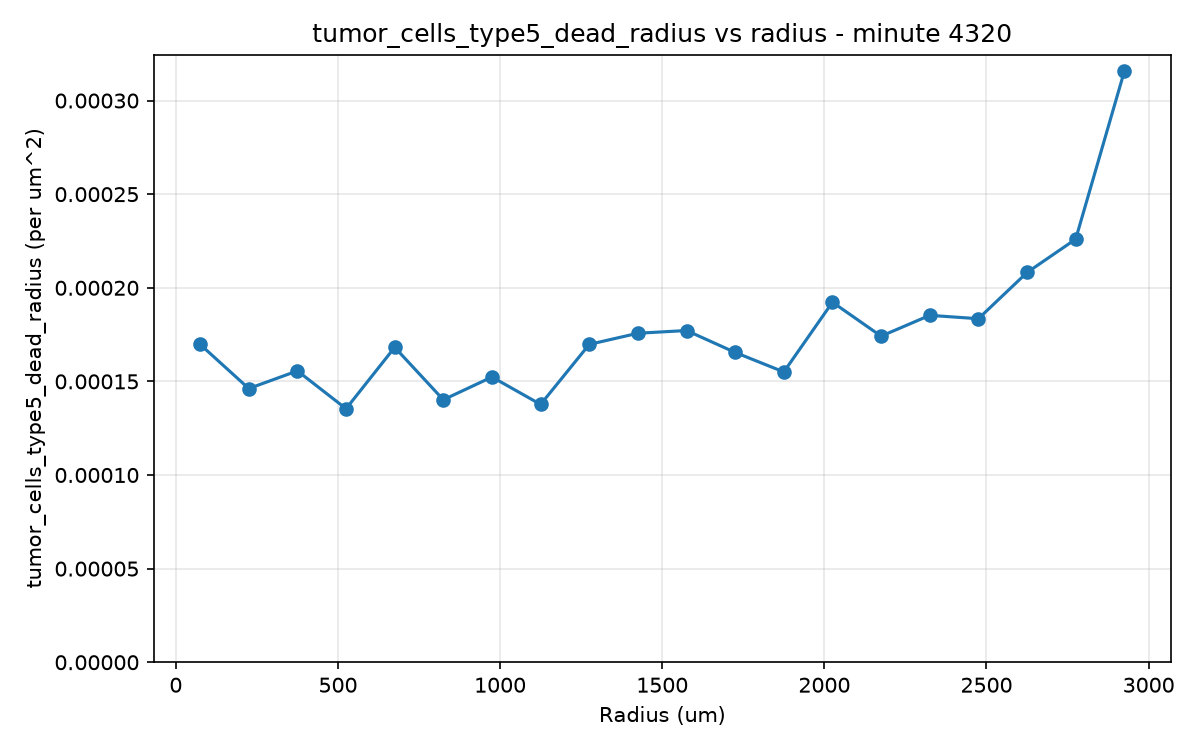
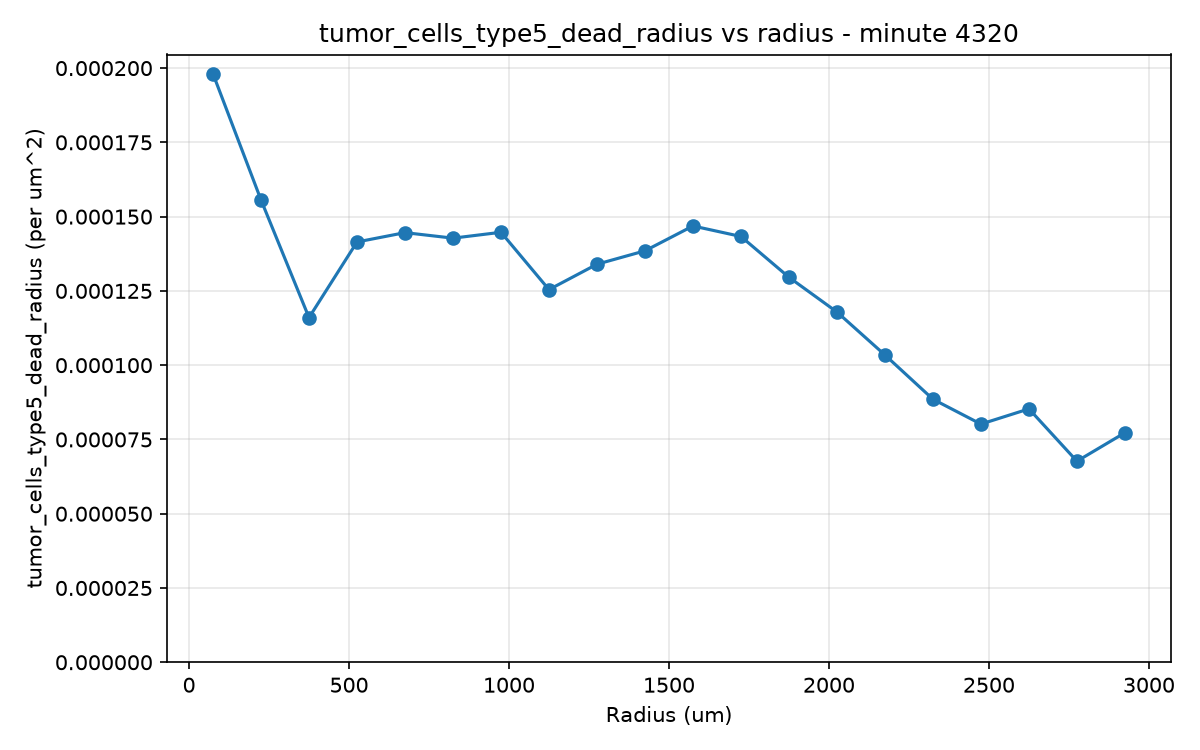
new configuration maximun necrosis rate for model without treatment and with glucose

diff --git a/abm_calibration/optimize.py b/abm_calibration/optimize.py
@@ -29,12 +29,12 @@ import optuna
 import pandas as pd
 
 # Change this: File Parameters for the desired experiment
-EXPERIMENT_ID = 101
+EXPERIMENT_ID = 111
 SEED = 42
 # You can set the number of trials to 0 to skip the optimization and just load the best result from the database
 NUMBER_OF_TRIALS = 10000
 # Number of Monte Carlo simulations to run for each trial. Use one for an aproximation of the error with a single montecarlo run
-NUMBER_MONTE_CARLO = 1
+NUMBER_MONTE_CARLO = 5
 # BioDynaMo directory to execute the comand source thisbdm.sh, you can change it to your own path
 BIODYNAMO_DIR = " /home/usuario/Desktop/biodynamo/build/bin/thisbdm.sh"
 
@@ -59,11 +59,8 @@ def run_ABM(params, seed):
     #     "basal_death_probability_cancer_cells"
     # ]
 
-    avg_migration_bias_cart = params[
-        "avg_migration_bias_cart"
-    ]
-    std_migration_bias_cart = params[
-        "std_migration_bias_cart"
+    maximum_necrosis_lack_of_oxygen_rate = params[
+        "maximum_necrosis_lack_of_oxygen_rate"
     ]
     # default_glucose_consumption_tumor_cell = params[
     #     "default_glucose_consumption_tumor_cell"
@@ -74,7 +71,7 @@ def run_ABM(params, seed):
 
     # Change this configuration for the ABM run
     config = {
-  "seed": 42,
+  "seed": seed,
   "bound_space_toplogy": "closed",
   "num_radius_intervals": 20,
   "lateral_oxygen_production_min_z": -300.0,
@@ -92,7 +89,7 @@ def run_ABM(params, seed):
   "cylindrical_tumor_radius": 3000.0,
   "max_radius_analysis_csv_dependent_on_radius": 3000.0,
   "cylindrical_tumor_height": 100.0,
-  "initial_number_of_cylindrical_tumor_cells": 2800,
+  "initial_number_of_cylindrical_tumor_cells": 28000,
   "default_volume_new_tumor_cell": 1468.0,
   "std_volume_new_tumor_cell": 166,
   "min_volume_new_tumor_cell": 1136.0,
@@ -106,22 +103,22 @@ def run_ABM(params, seed):
   "initial_oxygen_level": 0.0,
   "oxygen_reference_level": 165.0,
   "default_oxygen_consumption_tumor_cell": 77.47,
-  "default_glucose_consumption_tumor_cell": 0.45,
+  "default_glucose_consumption_tumor_cell": 0.045,
   "diffusion_coefficient_oxygen": 180000.0,
   "decay_constant_oxygen": 0.01,
   "time_apoptosis": 6000.0,
   "time_lysis": 6000.0,
   "treatment": {
-    "0": 5600
+    "0": 0
   },
   "average_time_transformation_random_rate": 72,
   "standard_deviation_transformation_random_rate": 15.0,
   "decay_constant_glucose": 0.0005,
-  "oxygen_saturation_for_proliferation": 0,
-  "oxygen_limit_for_proliferation": 0,
+  "oxygen_saturation_for_proliferation": 13.74,
+  "oxygen_limit_for_proliferation": 5.9,
   "oxygen_limit_for_necrosis_maximum": 0.0,
-  "oxygen_limit_for_necrosis": 0.0,
-  "maximum_necrosis_lack_of_oxygen_rate": 0.0,
+  "oxygen_limit_for_necrosis": 45.0,
+  "maximum_necrosis_lack_of_oxygen_rate": maximum_necrosis_lack_of_oxygen_rate,
   "reduction_consumption_dead_cells": 0.0,
   "basal_death_probability_cancer_cells": 0.000005,
   "bounded_space_min_allowed_z": -50.0,
@@ -133,19 +130,21 @@ def run_ABM(params, seed):
   "diffusion_coefficient_glucose": 7800,
   "initial_glucose_level": 24.98,
   "max_radius_glucose_initialization": 3100.0,  
-  "default_oxygen_consumption_cart": 0,
-  "default_glucose_consumption_cart": 0.7,
+  "default_oxygen_consumption_cart": 7,
+  "default_glucose_consumption_cart": 0.07,
   "glucose_saturation_for_tumor_cell_growth": 24.98,
   "glucose_limit_for_tumor_cell_growth": 0,
   "glucose_limit_for_death": 5,
   "glucose_limit_for_death_maximum": 0,
   "maximum_death_lack_of_glucose_rate": 0.000175,
   "minimum_tumor_cell_target_volume_fraction_for_division": 0.9,
-  "avg_migration_bias_cart": avg_migration_bias_cart,
-  "std_migration_bias_cart": std_migration_bias_cart,
+  "avg_migration_bias_cart": 0,
+  "std_migration_bias_cart": 0.135,
   "persistence_time_cart": 0,
   "kill_rate_cart": 0.521,
-  "adhesion_rate_cart": 0.0013
+  "adhesion_rate_cart": 0.00032,
+  "diffusion_coefficient_immunostimulatory_factor": 100000,
+  "decay_constant_immunostimulatory_factor": 0.00001
 }
     # Save the config parameters for the run to the params.json file
     with open(PARAMS_PATH, "w") as f:
@@ -157,29 +156,32 @@ def run_ABM(params, seed):
 
 # Change This: Function to compute the error between the ABM simulation results and the experimental data
 def compute_error():
-#     sim_dir = Path(__file__).resolve().parent.parent / "output" / "data_dependent_on_radius_tumor.csv"
+    sim_dir = Path(__file__).resolve().parent.parent / "output" / "data_dependent_on_radius_tumor.csv"
 
 #     if not sim_dir.exists():
 #         logging.error("Missing simulation CSV: %s", sim_dir)
 #         return float("inf")
 
-#     df_s = pd.read_csv(
-#         sim_dir,
-#         usecols=[
-#             "total_minutes",
-#             "average_oxygen_all_cells_radius_2850_to_3000",
-#             "average_oxygen_all_cells_radius_0_to_150",
-#         ],
-#     )
+    df_s = pd.read_csv(
+        sim_dir,
+        usecols=[
+            "total_minutes",
+            "tumor_cells_type5_dead_radius_0_to_150"
+        ],
+    )
 
 #     # See the value at the minute 30 for the average oxygen level in the simulation data
-#     row = df_s[df_s["total_minutes"] == 30].iloc[0]
+    row = df_s[df_s["total_minutes"] == 4320].iloc[0]
 #     value_border = row["average_oxygen_all_cells_radius_2850_to_3000"]
 #     value_border_in_mol_m3 = value_border / 585  # Convert from mmHg to mol/m3
 #     target_value_border = target_outer
-#     value_center = row["average_oxygen_all_cells_radius_0_to_150"]
+    value_center = row["tumor_cells_type5_dead_radius_0_to_150"]
 #     value_center_in_mol_m3 = value_center / 585  # Convert from mmHg to mol/m3
-#     target_value_center = target_inner
+    target_value_center = 10.6
+
+    error_total_tumor_cells = abs(value_center - target_value_center)
+
+    return float(error_total_tumor_cells)
 
 #    # Debug print de los 4 valores 
 #     print(f"Value border: {value_border_in_mol_m3}")
@@ -191,16 +193,17 @@ def compute_error():
 #     mse = ((value_border_in_mol_m3 - target_value_border) ** 2 + (value_center_in_mol_m3 - target_value_center) ** 2) / 2 
     
 #     return float(mse)
-    sim_dir = Path(__file__).resolve().parent.parent / "output" / "final_data.csv"
+    # sim_dir = Path(__file__).resolve().parent.parent / "output" / "final_data.csv"
+    # sim_dir = Path(__file__).resolve().parent.parent / "output" / "final_data.csv"
 
 
-    if not sim_dir.exists():
-        logging.error("Missing simulation CSV: %s", sim_dir)
-        return float("inf")
+    # if not sim_dir.exists():
+    #     logging.error("Missing simulation CSV: %s", sim_dir)
+    #     return float("inf")
 
-    df_s = pd.read_csv(
-        sim_dir, usecols=["total_minutes", "num_tumor_cells", "tumor_cells_type5_dead","average_glucose_all_cells","average_radius_distance_living_cart_cells"]
-    )
+    # df_s = pd.read_csv(
+    #     sim_dir, usecols=["total_minutes", "num_tumor_cells", "tumor_cells_type5_dead","average_glucose_all_cells","average_radius_distance_living_cart_cells"]
+    # )
    #take at the minute 1440 
     # row = df_s[df_s["total_minutes"] == 1440].iloc[0]
     # tumor_cells_type5_dead_1440 = row["tumor_cells_type5_dead"]
@@ -212,9 +215,9 @@ def compute_error():
     # target_tumor_cells_type5_dead_2880 = 350
 
    # take the value at the minute 4320 for the number of dead tumor cells in the simulation data
-    row = df_s[df_s["total_minutes"] == 4320].iloc[0]
-    dead_cells_4320 = row["tumor_cells_type5_dead"]
-    dead_cells_4320_target = 680
+    # row = df_s[df_s["total_minutes"] == 4320].iloc[0]
+    # dead_cells_4320 = row["tumor_cells_type5_dead"]
+    # dead_cells_4320_target = 680
     # total_tumor_cells_4320 = row["num_tumor_cells"]
     # target_total_tumor_cells_4320 = 4143.0
 
@@ -225,9 +228,9 @@ def compute_error():
     
 
     # Compute absolute errors
-    error_total_tumor_cells = abs(dead_cells_4320 - dead_cells_4320_target)
+    # error_total_tumor_cells = abs(dead_cells_4320 - dead_cells_4320_target)
 
-    return float(error_total_tumor_cells)
+    # return float(error_total_tumor_cells)
 
 
     # dafault 
@@ -351,8 +354,8 @@ def compute_error():
 def objective(trial):
     # Change this: Define the parameters to be optimized and their ranges
     params = {
-        "avg_migration_bias_cart": trial.suggest_float("avg_migration_bias_cart", 0.0, 0.3, step=0.1),
-        "std_migration_bias_cart": trial.suggest_float("std_migration_bias_cart", 1, 50, step=1),
+        "maximum_necrosis_lack_of_oxygen_rate": trial.suggest_float("maximum_necrosis_lack_of_oxygen_rate", 0.0000177, 0.0000216, step=0.0000003),
+        # "std_migration_bias_cart": trial.suggest_float("std_migration_bias_cart", 1, 50, step=1),
         # "maximum_necrosis_lack_of_oxygen_rate": trial.suggest_float("maximum_necrosis_lack_of_oxygen_rate", 0.00002, 0.000022, step=0.0000004),
         # "kill_rate_cart": trial.suggest_float("kill_rate_cart", 0.001, 0.999, step=0.001),
         # "maximum_death_lack_of_glucose_rate": trial.suggest_float("maximum_death_lack_of_glucose_rate", 0.000085, 0.000106, step=0.000001)

diff --git a/draft/experimentation.py b/draft/experimentation.py
@@ -42,12 +42,14 @@ def run_ABM(seed):
 
     config={
   "seed": seed,
+  "bound_space_toplogy": "closed",
   "num_radius_intervals": 20,
   "lateral_oxygen_production_min_z": -300.0,
   "lateral_oxygen_production_max_z": 300.0,
   "min_initial_z_substances": -300.0,
   "max_initial_z_substances": 300.0,
-  "diffuse_on_z_axis": False,
+  "diffuse_oxygen_on_z_axis": False,
+  "diffuse_glucose_on_z_axis": False,
   "output_performance_statistics": False,
   "total_minutes_to_simulate": 4320,
   "output_csv_interval": 600,
@@ -59,47 +61,60 @@ def run_ABM(seed):
   "cylindrical_tumor_height": 100.0,
   "initial_number_of_cylindrical_tumor_cells": 28000,
   "default_volume_new_tumor_cell": 1468.0,
-  "std_volume_new_tumor_cell": 0,
+  "std_volume_new_tumor_cell": 166,
+  "min_volume_new_tumor_cell": 1136.0,
+  "max_volume_new_tumor_cell": 1800.0,
   "default_volume_new_cart_cell": 269.0,
-  "std_volume_new_cart_cell": 67.25,
+  "std_volume_new_cart_cell": 33.625,
+  "min_volume_new_cart_cell": 201.75,
+  "max_volume_new_cart_cell": 336.25,
   "oncoprotein_mean": 1.0,
   "oncoprotein_standard_deviation": 0.0,
   "initial_oxygen_level": 0.0,
   "oxygen_reference_level": 165.0,
   "default_oxygen_consumption_tumor_cell": 77.47,
-  "default_oxygen_consumption_cart": 0,
+  "default_glucose_consumption_tumor_cell": 0.045,
   "diffusion_coefficient_oxygen": 180000.0,
   "decay_constant_oxygen": 0.01,
   "time_apoptosis": 6000.0,
+  "time_lysis": 6000.0,
   "treatment": {
     "0": 0
   },
   "average_time_transformation_random_rate": 72,
   "standard_deviation_transformation_random_rate": 15.0,
   "decay_constant_glucose": 0.0005,
-  "oxygen_saturation_for_proliferation": 0,
-  "oxygen_limit_for_proliferation": 0,
+  "oxygen_saturation_for_proliferation": 13.74,
+  "oxygen_limit_for_proliferation": 5.9,
   "oxygen_limit_for_necrosis_maximum": 0.0,
-  "oxygen_limit_for_necrosis": 0.0,
-  "maximum_necrosis_lack_of_oxygen_rate": 2.16e-05,
+  "oxygen_limit_for_necrosis": 45.0,
+  "maximum_necrosis_lack_of_oxygen_rate": 0.0000216,
   "reduction_consumption_dead_cells": 0.0,
-  "basal_death_probability_cancer_cells": 5e-06,
+  "basal_death_probability_cancer_cells": 0.000005,
   "bounded_space_min_allowed_z": -50.0,
   "bounded_space_max_allowed_z": 50.0,
-  "minimum_distance_from_tumor_to_spawn_cart": 20.0,
-  "add_immunostimulatory_factor": False,
+  "bounded_space_max_allowed_radius": 3250.0,
+  "minimum_distance_from_tumor_to_spawn_cart": 0.0,
+  "add_immunostimulatory_factor": True,
   "add_glucose": True,
   "diffusion_coefficient_glucose": 7800,
   "initial_glucose_level": 24.98,
-  "max_radius_glucose_initialization": 3100.0,
-  "default_glucose_consumption_tumor_cell": 0.045,
-  "default_glucose_consumption_cart": 0.045,
+  "max_radius_glucose_initialization": 3100.0,  
+  "default_oxygen_consumption_cart": 7,
+  "default_glucose_consumption_cart": 0.07,
   "glucose_saturation_for_tumor_cell_growth": 24.98,
   "glucose_limit_for_tumor_cell_growth": 0,
   "glucose_limit_for_death": 5,
   "glucose_limit_for_death_maximum": 0,
-  "maximum_death_lack_of_glucose_rate": 0.000156,
-  "minimum_tumor_cell_target_volume_fraction_for_division": 0.9
+  "maximum_death_lack_of_glucose_rate": 0.000175,
+  "minimum_tumor_cell_target_volume_fraction_for_division": 0.9,
+  "avg_migration_bias_cart": 0,
+  "std_migration_bias_cart": 0.135,
+  "persistence_time_cart": 0,
+  "kill_rate_cart": 0.521,
+  "adhesion_rate_cart": 0.00032,
+  "diffusion_coefficient_immunostimulatory_factor": 100000,
+  "decay_constant_immunostimulatory_factor": 0.00001
 }
 
     # Save the config parameters for this run to the params.json file

diff --git a/draft/analysis_radius_atribute.py b/draft/analysis_radius_atribute.py
@@ -27,12 +27,12 @@ import matplotlib.pyplot as plt
 
 # ---- settings ----
 CSV_PATH = "./output/data_dependent_on_radius_tumor.csv"
-MINUTE = 1440 # change this to the minute you want to plot
-# MINUTE = 4320 # change this to the minute you want to plot
+# MINUTE = 1440 # change this to the minute you want to plot
+MINUTE = 4320 # change this to the minute you want to plot
 # ATTRIBUTE= "num_alive_tumor_cells_radius"
-# ATTRIBUTE= "tumor_cells_type5_dead_radius"
+ATTRIBUTE= "tumor_cells_type5_dead_radius"
 # ATTRIBUTE = "average_oxygen_all_cells_radius"  # change this to the attribute you want to plot #average_glucose_all_cells
-ATTRIBUTE = "num_alive_cart_cells_radius"  # change this to the attribute you want to plot #tumor_cells_type5_dead_radius
+# ATTRIBUTE = "num_alive_cart_cells_radius"  # change this to the attribute you want to plot #tumor_cells_type5_dead_radius
 # ATTRIBUTE ="average_glucose_all_cells_radius"
 # other examples: "average_glucose_all_cells_radius", "average_oxygen_cancer_cells_radius", "num_alive_cart_cells_radius"
 # "num_alive_cells_radius", "num_alive_tumor_cells_radius", etc.

diff --git a/draft/generatecsv.py b/draft/generatecsv.py
@@ -28,7 +28,7 @@ import numpy as np
 import optuna
 import pandas as pd
 # Change this: File Parameters for the desired experiment
-EXPERIMENT_ID = 101
+EXPERIMENT_ID = 111
 SEED = 42
 # BioDynaMo directory to execute the comand source thisbdm.sh, you can change it to your own path
 BIODYNAMO_DIR = " /home/usuario/Desktop/biodynamo/build/bin/thisbdm.sh"
